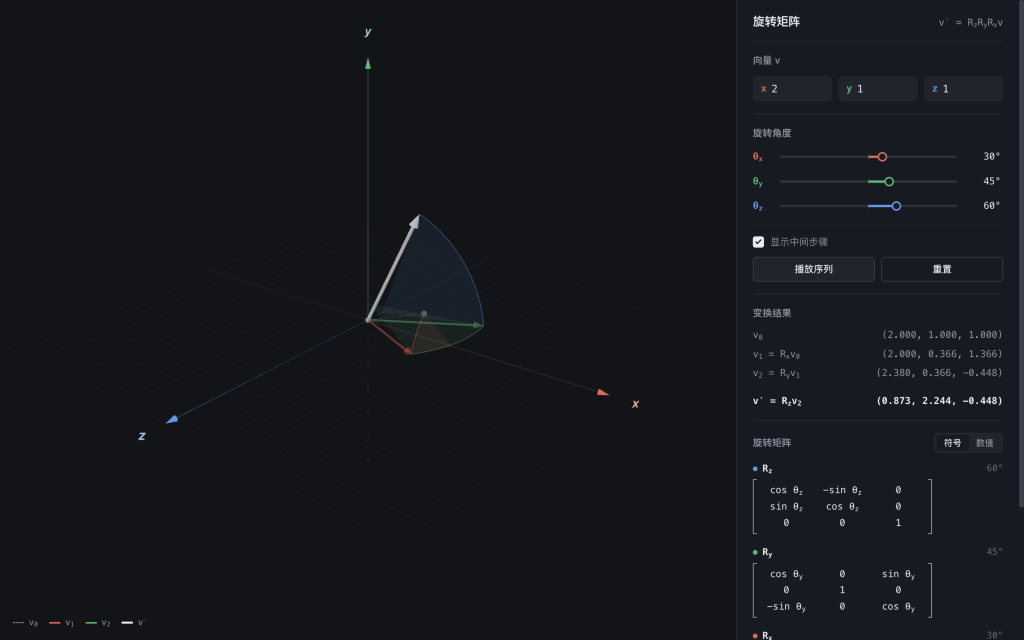
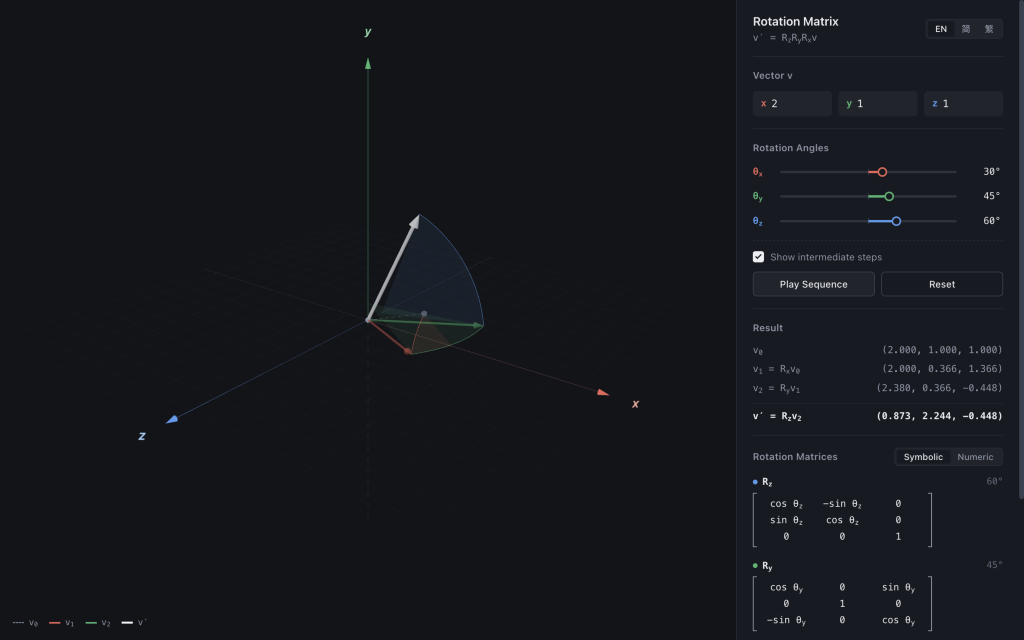
Add EN / zh-CN / zh-HK language switcher and update README preview

diff --git a/Rotation-Matrix.html b/Rotation-Matrix.html
@@ -1,9 +1,9 @@
 <!DOCTYPE html>
-<html lang="zh-CN">
+<html lang="en">
 <head>
 <meta charset="UTF-8">
 <meta name="viewport" content="width=device-width, initial-scale=1, viewport-fit=cover">
-<title>旋转矩阵</title>
+<title>Rotation Matrix</title>
 <style>
 :root {
   --bg: #f5f6f8;
@@ -24,8 +24,12 @@
   --accent: #16181d;
   --accent-ink: #ffffff;
   --bracket: #4a5160;
-  --sans: -apple-system, BlinkMacSystemFont, "PingFang SC", "Hiragino Sans GB", "Microsoft YaHei", system-ui, sans-serif;
+  --sans: -apple-system, BlinkMacSystemFont, "PingFang SC", "PingFang HK", "Hiragino Sans GB", "Microsoft YaHei", system-ui, sans-serif;
   --mono: ui-monospace, "SF Mono", Menlo, Consolas, monospace;
+}
+
+:lang(zh-HK) {
+  --sans: -apple-system, BlinkMacSystemFont, "PingFang HK", "PingFang TC", "Microsoft JhengHei", system-ui, sans-serif;
 }
 
 @media (prefers-color-scheme: dark) {
@@ -167,11 +171,18 @@ sub {
 
 .rail-head {
   display: flex;
-  align-items: baseline;
+  align-items: center;
   justify-content: space-between;
   gap: 12px;
   padding-bottom: 14px;
   border-bottom: 1px solid var(--line);
+}
+
+.rail-title-wrap {
+  display: flex;
+  flex-direction: column;
+  gap: 2px;
+  min-width: 0;
 }
 
 .rail-head h1 {
@@ -186,6 +197,10 @@ sub {
   font-size: 12px;
   color: var(--ink-2);
   white-space: nowrap;
+}
+
+.lang-seg button {
+  padding: 2px 7px;
 }
 
 .section {
@@ -691,13 +706,20 @@ sub {
 
   <aside id="rail">
     <header class="rail-head">
-      <h1>旋转矩阵</h1>
-      <span class="rail-formula">v′ = R<sub>z</sub>R<sub>y</sub>R<sub>x</sub>v</span>
+      <div class="rail-title-wrap">
+        <h1 data-i18n="title">Rotation Matrix</h1>
+        <span class="rail-formula">v′ = R<sub>z</sub>R<sub>y</sub>R<sub>x</sub>v</span>
+      </div>
+      <div class="seg lang-seg" id="langSeg" role="group" aria-label="Language">
+        <button type="button" class="active" data-lang="en" lang="en" title="English">EN</button>
+        <button type="button" data-lang="zh-CN" lang="zh-Hans" title="简体中文">简</button>
+        <button type="button" data-lang="zh-HK" lang="zh-Hant-HK" title="繁體中文（香港）">繁</button>
+      </div>
     </header>
 
     <section class="section">
       <div class="section-head">
-        <h2>向量 v</h2>
+        <h2 data-i18n="vector">Vector v</h2>
       </div>
       <div class="vec-grid">
         <label class="vec-field" style="--c:var(--x)">
@@ -717,27 +739,27 @@ sub {
 
     <section class="section">
       <div class="section-head">
-        <h2>旋转角度</h2>
+        <h2 data-i18n="angles">Rotation Angles</h2>
       </div>
       <div class="ang-list">
         <div class="ang-row" style="--c:var(--x)">
           <span class="ang-label">θ<sub>x</sub></span>
           <div class="slider-wrap">
-            <input type="range" id="ax" min="-180" max="180" value="30" step="1" aria-label="绕 X 轴旋转角度">
+            <input type="range" id="ax" min="-180" max="180" value="30" step="1" aria-label="Rotation angle around X axis">
           </div>
           <span class="ang-val" id="axv" tabindex="0" role="button">30°</span>
         </div>
         <div class="ang-row" style="--c:var(--y)">
           <span class="ang-label">θ<sub>y</sub></span>
           <div class="slider-wrap">
-            <input type="range" id="ay" min="-180" max="180" value="45" step="1" aria-label="绕 Y 轴旋转角度">
+            <input type="range" id="ay" min="-180" max="180" value="45" step="1" aria-label="Rotation angle around Y axis">
           </div>
           <span class="ang-val" id="ayv" tabindex="0" role="button">45°</span>
         </div>
         <div class="ang-row" style="--c:var(--z)">
           <span class="ang-label">θ<sub>z</sub></span>
           <div class="slider-wrap">
-            <input type="range" id="az" min="-180" max="180" value="60" step="1" aria-label="绕 Z 轴旋转角度">
+            <input type="range" id="az" min="-180" max="180" value="60" step="1" aria-label="Rotation angle around Z axis">
           </div>
           <span class="ang-val" id="azv" tabindex="0" role="button">60°</span>
         </div>
@@ -746,28 +768,28 @@ sub {
       <div class="ang-controls">
         <label class="chk-row">
           <input type="checkbox" id="showSteps" checked>
-          <span>显示中间步骤</span>
+          <span data-i18n="showSteps">Show intermediate steps</span>
         </label>
         <div class="btn-row">
-          <button type="button" class="btn primary" id="animateBtn">播放序列</button>
-          <button type="button" class="btn" id="resetBtn">重置</button>
+          <button type="button" class="btn primary" id="animateBtn">Play Sequence</button>
+          <button type="button" class="btn" id="resetBtn" data-i18n="reset">Reset</button>
         </div>
       </div>
     </section>
 
     <section class="section">
       <div class="section-head">
-        <h2>变换结果</h2>
+        <h2 data-i18n="result">Result</h2>
       </div>
       <div class="steps-list" id="steps"></div>
     </section>
 
     <section class="section">
       <div class="section-head">
-        <h2>旋转矩阵</h2>
+        <h2 data-i18n="matrices">Rotation Matrices</h2>
         <div class="seg" id="matModeSeg">
-          <button type="button" class="active" data-mode="symbolic">符号</button>
-          <button type="button" data-mode="numeric">数值</button>
+          <button type="button" class="active" data-mode="symbolic" data-i18n="symbolic">Symbolic</button>
+          <button type="button" data-mode="numeric" data-i18n="numeric">Numeric</button>
         </div>
       </div>
       <div class="matrices-list" id="matrices"></div>
@@ -1216,7 +1238,62 @@ function applyThemeToScene(isDark) {
 }
 
 // ── UI & State Controller ────────────────────────────────────────────────────
+const I18N = {
+  en: {
+    title: 'Rotation Matrix',
+    vector: 'Vector v',
+    angles: 'Rotation Angles',
+    showSteps: 'Show intermediate steps',
+    play: 'Play Sequence',
+    stop: 'Stop',
+    reset: 'Reset',
+    result: 'Result',
+    matrices: 'Rotation Matrices',
+    symbolic: 'Symbolic',
+    numeric: 'Numeric',
+    langGroup: 'Language',
+    ariaAx: 'Rotation angle around X axis',
+    ariaAy: 'Rotation angle around Y axis',
+    ariaAz: 'Rotation angle around Z axis'
+  },
+  'zh-CN': {
+    title: '旋转矩阵',
+    vector: '向量 v',
+    angles: '旋转角度',
+    showSteps: '显示中间步骤',
+    play: '播放序列',
+    stop: '停止',
+    reset: '重置',
+    result: '变换结果',
+    matrices: '旋转矩阵',
+    symbolic: '符号',
+    numeric: '数值',
+    langGroup: '语言',
+    ariaAx: '绕 X 轴旋转角度',
+    ariaAy: '绕 Y 轴旋转角度',
+    ariaAz: '绕 Z 轴旋转角度'
+  },
+  'zh-HK': {
+    title: '旋轉矩陣',
+    vector: '向量 v',
+    angles: '旋轉角度',
+    showSteps: '顯示中間步驟',
+    play: '播放序列',
+    stop: '停止',
+    reset: '重設',
+    result: '變換結果',
+    matrices: '旋轉矩陣',
+    symbolic: '符號',
+    numeric: '數值',
+    langGroup: '語言',
+    ariaAx: '繞 X 軸旋轉角度',
+    ariaAy: '繞 Y 軸旋轉角度',
+    ariaAz: '繞 Z 軸旋轉角度'
+  }
+};
+
 const state = {
+  lang: 'en',
   vx: 2,
   vy: 1,
   vz: 1,
@@ -1232,8 +1309,28 @@ const ANG_IDS = ['ax', 'ay', 'az'];
 const stepsEl = document.getElementById('steps');
 const matricesEl = document.getElementById('matrices');
 const animBtn = document.getElementById('animateBtn');
+const langSeg = document.getElementById('langSeg');
 const legendV1 = document.getElementById('legend-v1');
 const legendV2 = document.getElementById('legend-v2');
+
+function applyLanguage(lang) {
+  const t = I18N[lang] || I18N.en;
+  state.lang = lang in I18N ? lang : 'en';
+  document.documentElement.lang = state.lang;
+  document.title = t.title;
+  document.querySelectorAll('[data-i18n]').forEach((el) => {
+    const key = el.dataset.i18n;
+    if (key in t) el.textContent = t[key];
+  });
+  langSeg.setAttribute('aria-label', t.langGroup);
+  langSeg.querySelectorAll('button').forEach((btn) => {
+    btn.classList.toggle('active', btn.dataset.lang === state.lang);
+  });
+  document.getElementById('ax').setAttribute('aria-label', t.ariaAx);
+  document.getElementById('ay').setAttribute('aria-label', t.ariaAy);
+  document.getElementById('az').setAttribute('aria-label', t.ariaAz);
+  animBtn.textContent = state.animating ? t.stop : t.play;
+}
 
 function updateSliderFill(id, val) {
   const slider = document.getElementById(id);
@@ -1349,7 +1446,7 @@ let anim = null;
 function stopAnim() {
   state.animating = false;
   anim = null;
-  animBtn.textContent = '播放序列';
+  animBtn.textContent = I18N[state.lang].play;
   animBtn.classList.remove('active');
 }
 
@@ -1418,6 +1515,12 @@ ANG_IDS.forEach((id) => {
   });
 });
 
+langSeg.querySelectorAll('button').forEach((btn) => {
+  btn.addEventListener('click', () => {
+    applyLanguage(btn.dataset.lang);
+  });
+});
+
 document.querySelectorAll('#matModeSeg button').forEach((btn) => {
   btn.addEventListener('click', () => {
     document.querySelectorAll('#matModeSeg button').forEach((b) => b.classList.remove('active'));
@@ -1450,7 +1553,7 @@ animBtn.addEventListener('click', () => {
   if (targets.every((a) => Math.abs(a) < 1e-6)) return;
   anim = { t: targets, phase: 0 };
   state.animating = true;
-  animBtn.textContent = '停止';
+  animBtn.textContent = I18N[state.lang].stop;
   animBtn.classList.add('active');
   ANG_IDS.forEach((id) => setAngleUI(id, 0, true));
   clearTrail();

diff --git a/README.md b/README.md
@@ -75,6 +75,7 @@ For $\mathbf{v}_0 = (2, 1, 1)$ and $(\theta_x, \theta_y, \theta_z) = (30^\circ, 
 
 | Control | Behavior |
 | :--- | :--- |
+| **Language (`EN` / `简` / `繁`)** | Switch UI labels between English (default), Simplified Chinese, and Traditional Chinese (Hong Kong). |
 | **3D Viewport** | Drag to orbit around the origin; scroll to zoom (`minDistance: 4`, `maxDistance: 30`). |
 | **Vector `v`** | Edit `x`, `y`, `z` components directly (`step: 0.1`); updates the 3D scene and matrices live. |
 | **Angles `θx`, `θy`, `θz`** | Drag sliders (`-180°` to `180°`) or click a degree readout to type an exact value (`Enter` to commit, `Esc` to cancel). |
